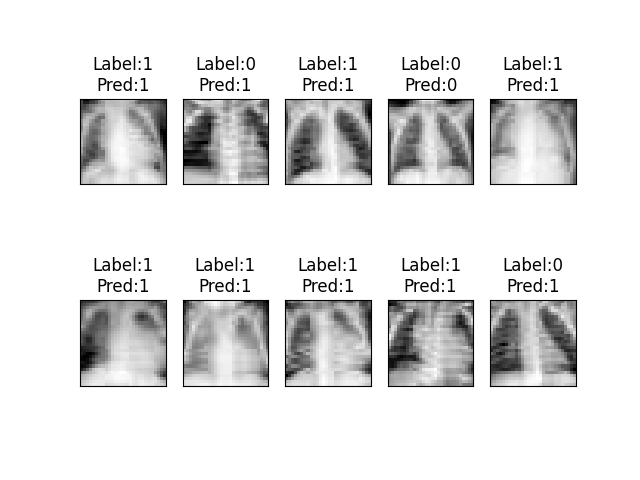
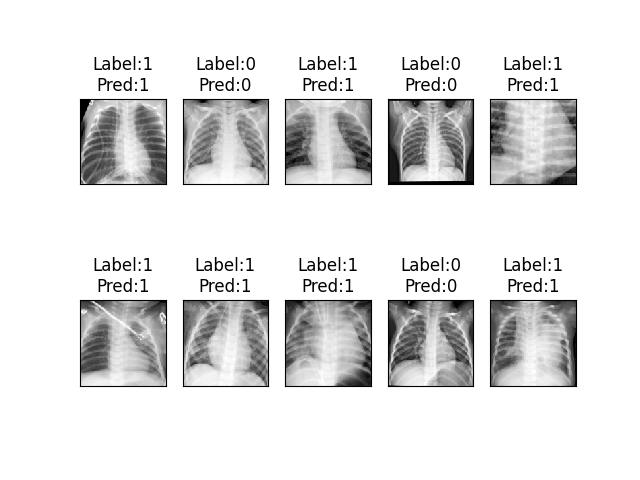
Added seed for gpu

Changed region(s): [[0.125, 0.1562, 0.9062, 0.4062], [0.125, 0.5312, 0.9062, 0.8125], [0.8438, 0.5312, 0.875, 0.5625]]

diff --git a/main.py b/main.py
@@ -10,7 +10,8 @@ import torchvision.transforms as transforms
 import matplotlib.pyplot as plt
 from sklearn.metrics import f1_score, precision_score, recall_score, roc_auc_score, accuracy_score, confusion_matrix
 
-torch.manual_seed(42)
+torch.manual_seed(42941)
+torch.cuda.manual_seed_all(42941)
 
 device = torch.device("cuda" if torch.cuda.is_available() else "cpu")
 
@@ -28,11 +29,11 @@ testData = PneumoniaMNIST(split = "test", download = True, size = SIZE, transfor
 trainLoader = data.DataLoader(trainingData, batch_size = 128, shuffle = True)
 trainLoaderEval = data.DataLoader(trainingData, batch_size = 128, shuffle = False)
 valLoader = data.DataLoader(validationData, batch_size = 128, shuffle = False)
-testLoader = data.DataLoader(testData, batch_size = 128, shuffle = False)
+testLoader = data.DataLoader(testData, batch_size = 128, shuffle = True)
 
 task = "binary-class"
 lr = 0.001
-NUM_EPOCHS = 5
+NUM_EPOCHS = 20
 data_flag = "pneumoniamnist" 
 
 # CNN
